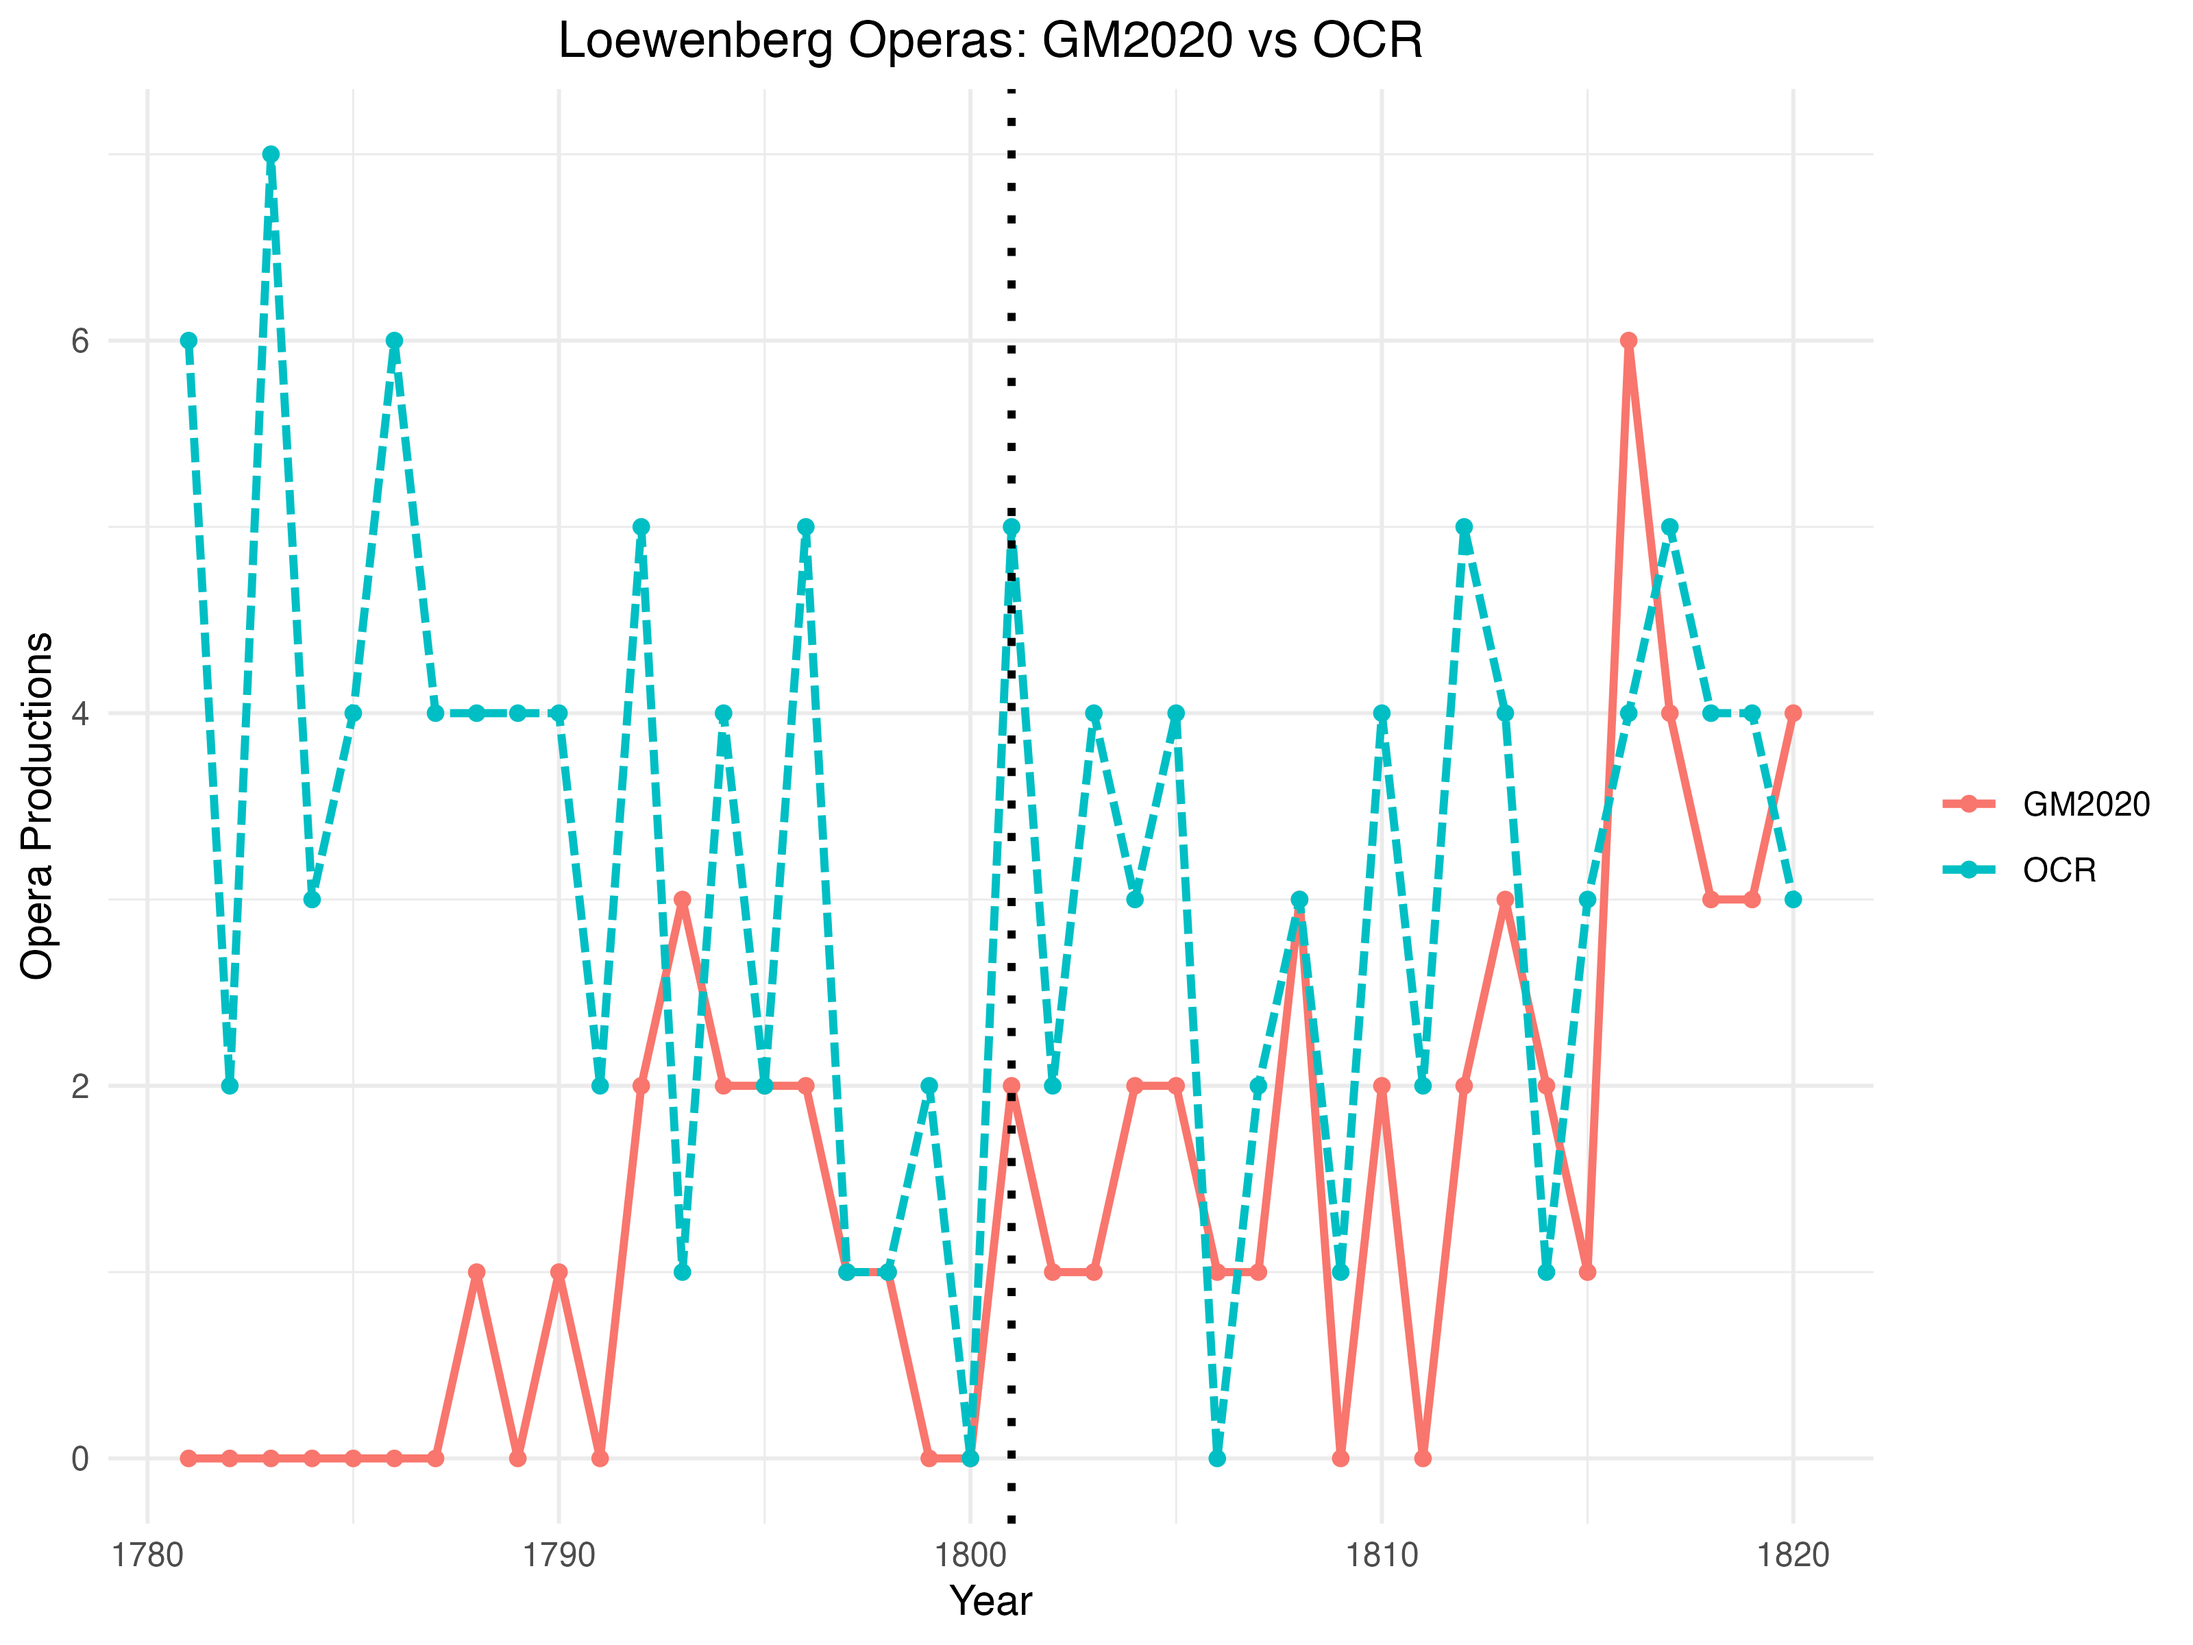
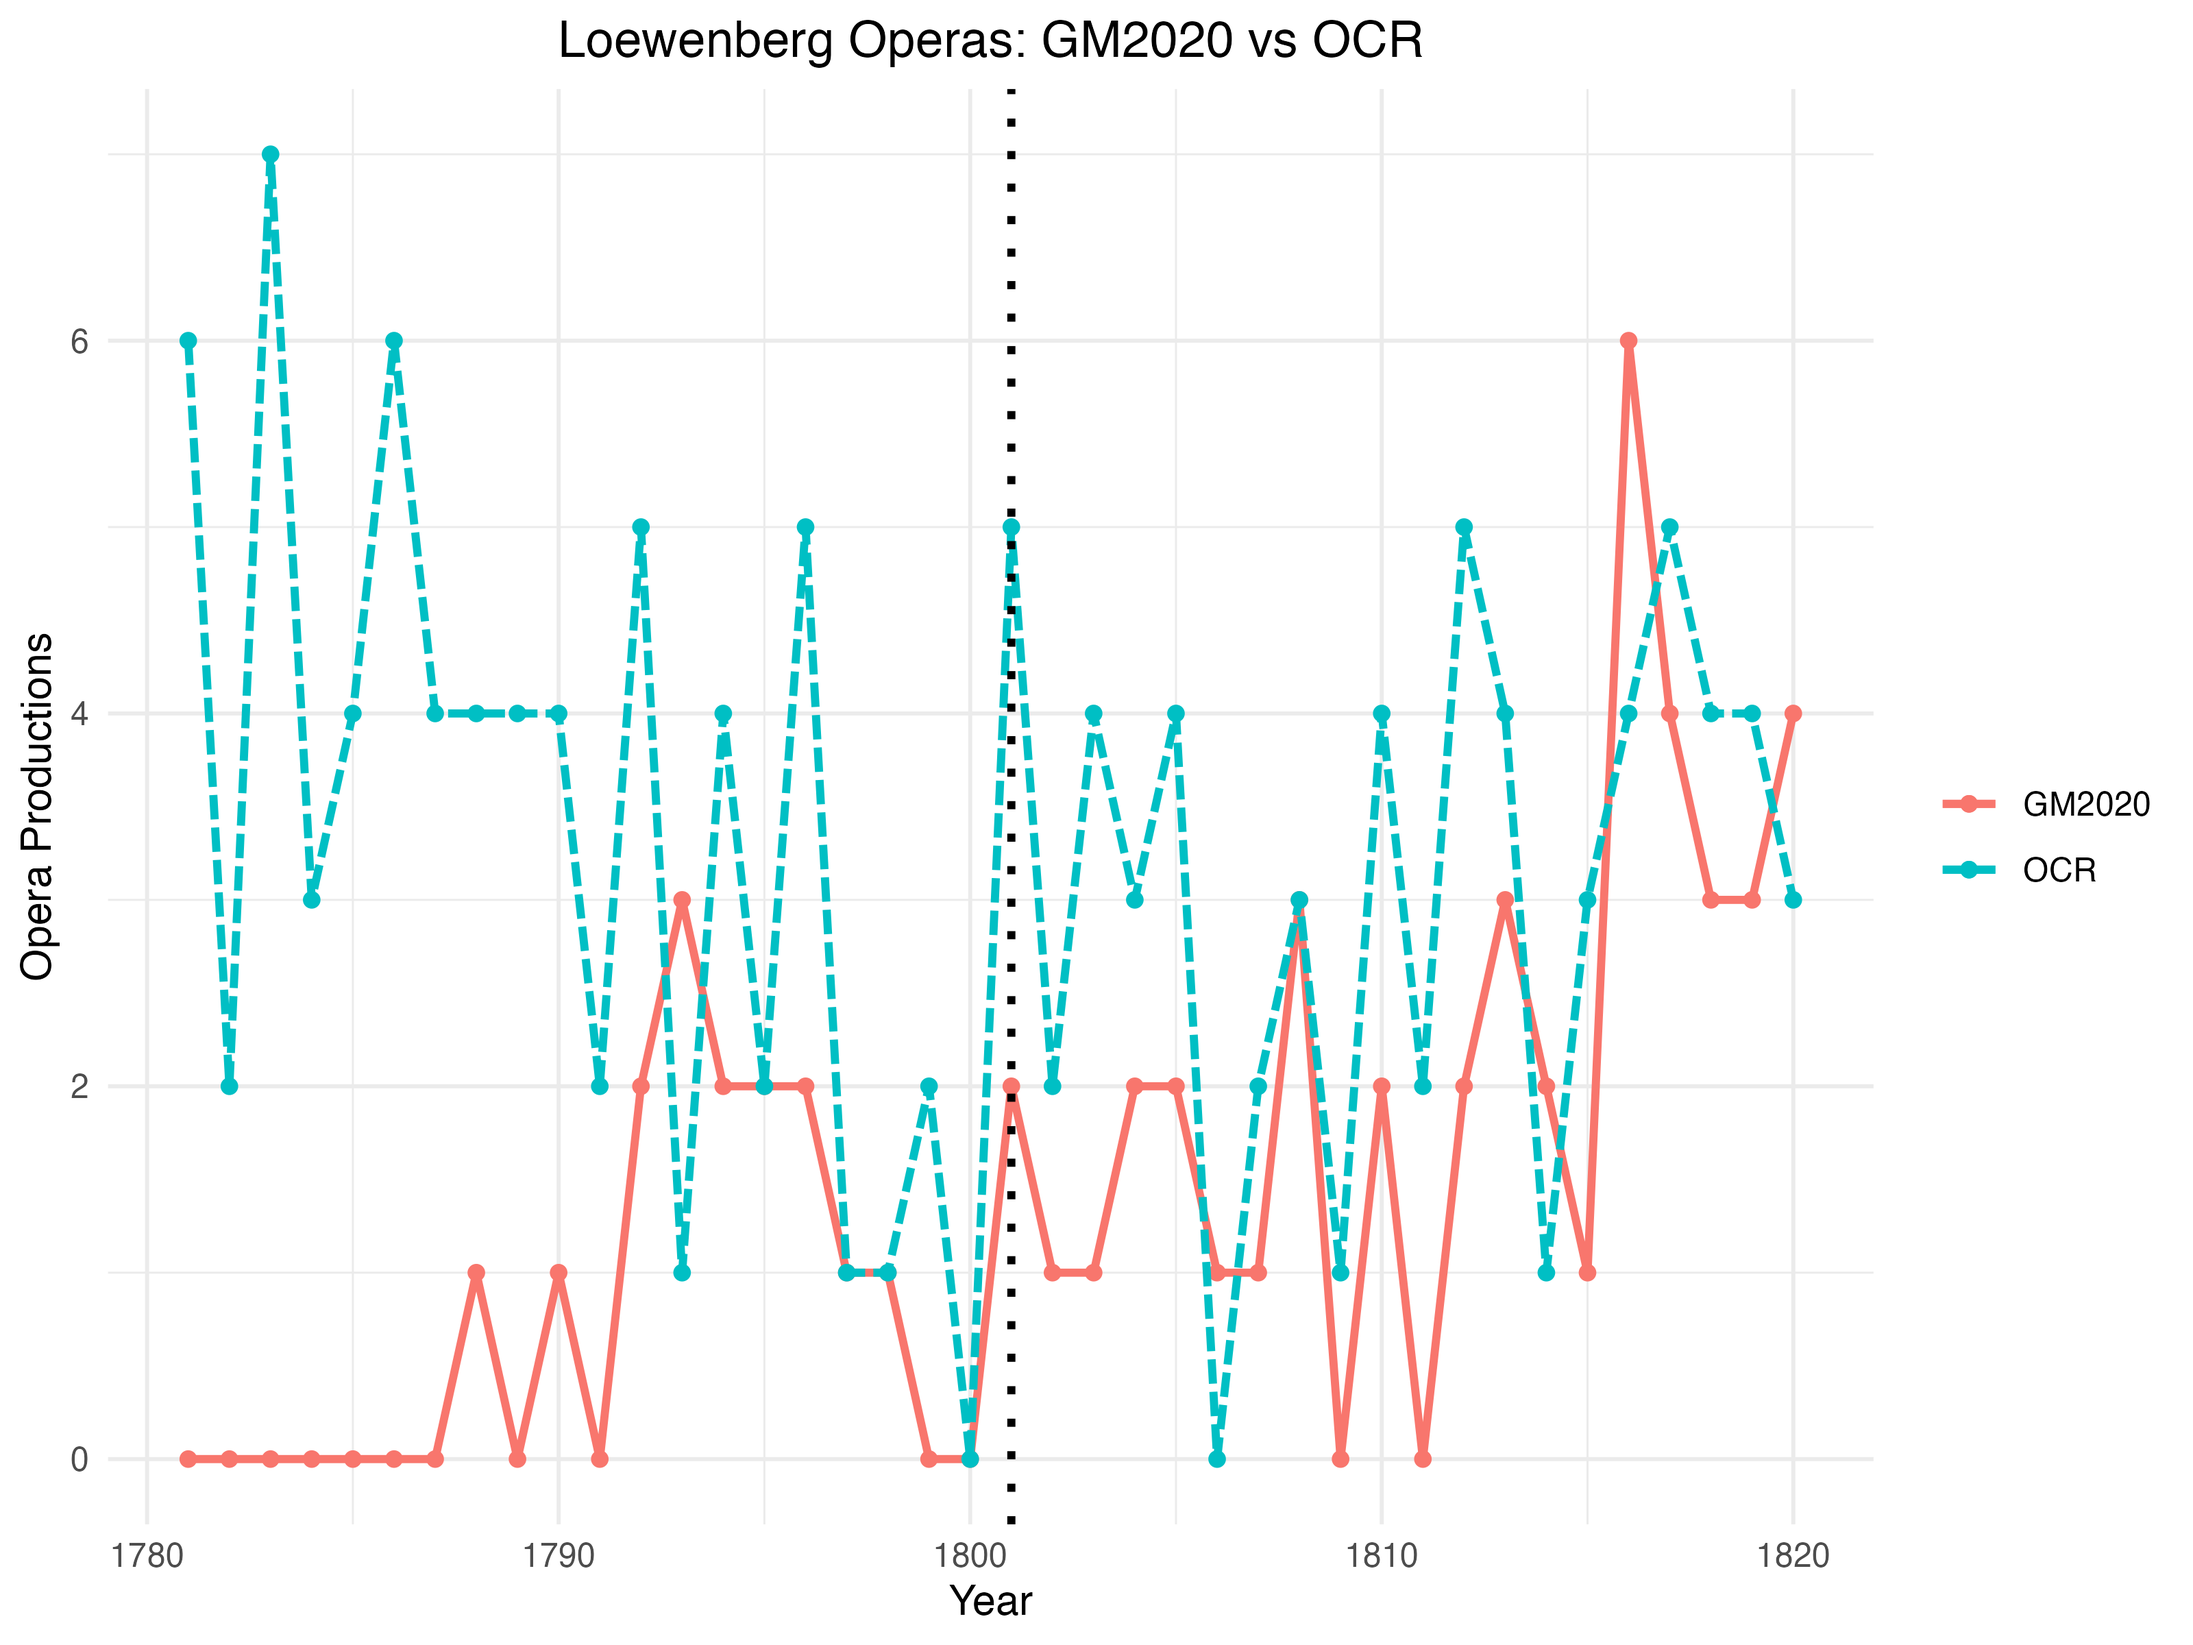
update

diff --git a/History_Sources/Readme.md b/History_Sources/Readme.md
@@ -1,0 +1,17 @@
+This folder contains historical documents which support the claims made in the comment of GM2020. The documents are cited in the comment. 
+
+## 1806_Magistrato_di_Revisione
+
+The document supports the claim that copyrights were not enforced in Venice prior to 1806, not 1801 as GM2020 claims. This image is part of the case of Sonzogno and Graziosi. The image itself can be found in the Archivio di State a Milano. It is in the collection 'Atti di governo, Studi parte moderna'. It details the response of ministry to the request of Sonzogno in April 1806 to have the authorities halt Graziosi, in Venice, in republishing works Sonzogno had copyright under the 1801 Cisalpine law. The memo explains that the newly annexed territories, including Venice, did not have copyright laws enforced, as they were not part of the Cisalpine Republic when the law had passed.
+
+## 1806_Raccolta_Regno_Italia
+
+The document supports the claim that copyrights protections were expanded to territories brought under Napoleonic rule after 1801, contrary to what GM2020 claim.This is an extract of the bulleting of laws passed in the Kingdom of Italy (the successor to the Cisalpine Republic) in 1806. Decree 112, passed in 1806, explicitly expands copyright protections to the newly acquired territories, and Venice is specifically mentioned. 
+
+## 1811_Bullettino_Regno_Napoli
+
+This document further provides evidence that copyright introduction was not limited to Lombardy and Venetia, contrary to the claim made in GM2020. This document is a bulletin of laws published in the Kingdom of Naples in 1811. Decree 1134 lays out a system for the functioning of theatres and performances. It is inspired by French laws; the ruler of the Kingdom was Napoleon's brother-in-law Murat. It includes the introduction of copyrights and mentions that impressarios cannot stage repeat performances without renumerating composers. 
+
+## Raccolta_1813_Po
+
+This document further provides evidence that copyright introduction was not limited to Lombardy and Venetia, contrary to the claim made in GM2020. In particular, it shows that Italian territories that were annexed by France upheld French laws. This document is an extract of a message by General Lameth, French prefect to the department of Po (containing Turin and other Piemontese territories), to the mayors of the department. He repeats that the mayors have a duty to uphold the French law of 1791 regaring copyright.  

diff --git a/Replication_Package/Codes/Readme.md b/Replication_Package/Codes/Readme.md
@@ -1,0 +1,1 @@
+This folder contains the code I use to support my analysis of the comment. It is in a mixture of R and Stata, owing to my use of R generally and the original replication package of GM2020 being in Stata. Running the master.R should be straightforward and should require no changes to any paths. To run the Master.do, clone the repository and change the path of working directory in Master.do once to the root of the repository. After this, all R and Stata files should run without any need to change paths. 
